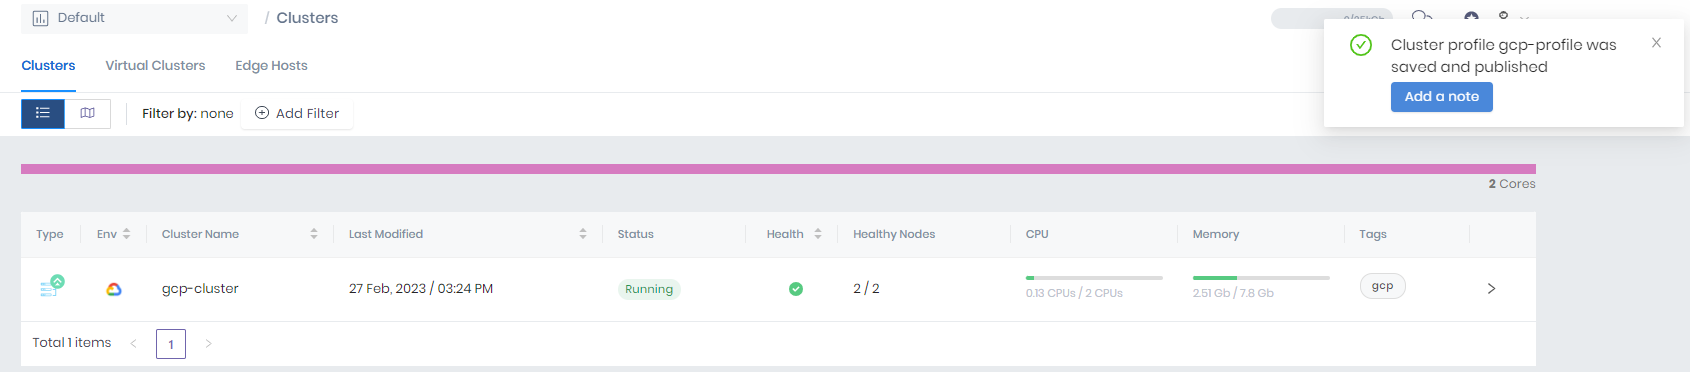
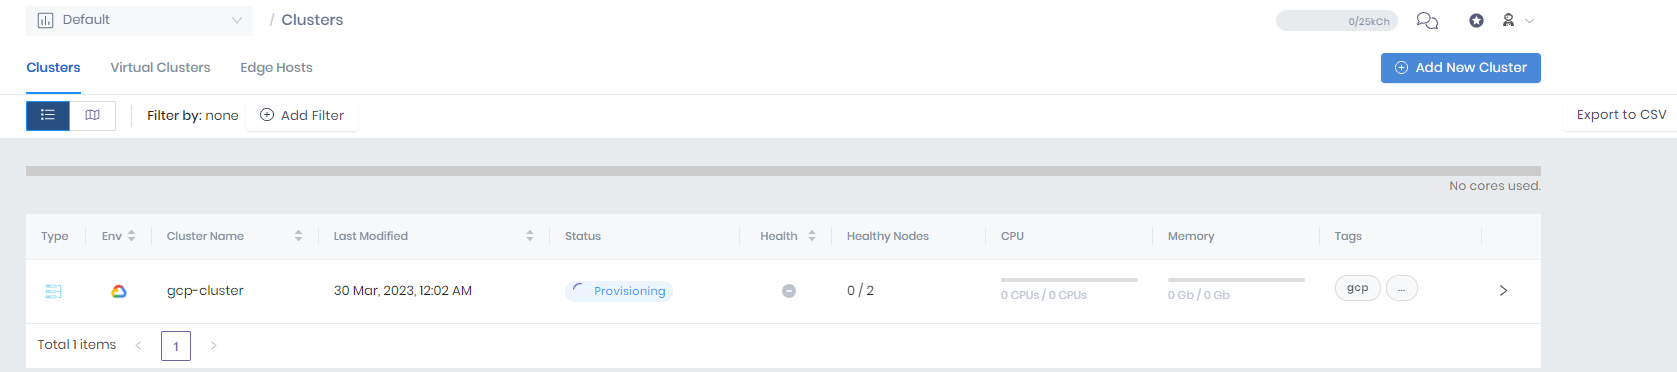
added GCP cluster creation with Terraform

diff --git a/content/docs/18-knowledgebase/01-tutorials/3-deploy-k8s-cluster.md b/content/docs/18-knowledgebase/01-tutorials/3-deploy-k8s-cluster.md
@@ -234,7 +234,7 @@ Take a look of the overall setup and press *Finish Configuration* to deploy it.
 
 Now select the **Clusters** page from the left panel and check the created cluster.
 
-![Update the cluster](deploy-k8s-cluster/deploy_app/aws_create_cluster.png)
+![Update the cluster](deploy-k8s-cluster/aws/aws_create_cluster.png)
 
 Click on the cluster to see the details, such as status, pack layers, monitoring data, and many other information.
 
@@ -576,7 +576,7 @@ For the purpose of this tutorial, you can use the default settings configuration
 
 The review section resumes the cluster configuration as you have configured it in the previous steps.
 
-![aws creation of a new cluster overview page](deploy-k8s-cluster/gcp/clusters_review.png)
+![gcp creation of a new cluster overview page](deploy-k8s-cluster/gcp/clusters_review.png)
 
 Take a look of the overall setup and press *Finish Configuration* to deploy it.
 
@@ -721,6 +721,12 @@ With Terraform, you will create the cluster and deploy the application. Each clu
 <Tabs.TabPane tab="AWS" key="aws-terraform">
 
 ## Configure the Cluster Profile
+
+Create a folder where you will put all the Terraform configuration files and open it:
+```bash
+$ mkdir terraform-project
+$ cd terraform-project
+```
 
 ### Providers
 
@@ -1299,6 +1305,12 @@ Click on the cluster to see the details, such as status, pack layers, monitoring
 
 ## Configure the Cluster Profile
 
+Create a folder where you will put all the Terraform configuration files and open it:
+```bash
+$ mkdir terraform-project
+$ cd terraform-project
+```
+
 ### Providers
 
 Create the file *provider.tf* and insert the list of variables:
@@ -1339,6 +1351,40 @@ spectrocloud_api_key = "j54Asdjnxxxxxxxxxxxxxxxxxxxxxxxx"
 To find the value of the *spectrocloud_api_key*, open the Palette dashboard and, from the left **Main Menu** click on the **Tenant Settings** panel and select **API Keys**.
 
 <br />
+
+
+### Data
+
+The *data* file contains the details, such as name, version, of the stacks that compose the infrastructure.
+
+Create the file *data.tf* and insert:
+
+```terraform
+data "spectrocloud_pack" "csi" {
+  name    = "csi-gcp-driver"
+  version = "1.7.1"
+}
+
+data "spectrocloud_pack" "cni" {
+  name    = "cni-calico"
+  version = "3.24.5"
+}
+
+data "spectrocloud_pack" "k8s" {
+  name    = "kubernetes"
+  version = "1.24.10"
+}
+
+data "spectrocloud_pack" "ubuntu" {
+  name    = "ubuntu-gcp"
+  version = "20.04"
+}
+
+data "spectrocloud_pack" "proxy" {
+  name    = "spectro-proxy"
+  version = "1.2.0"
+}
+```
 
 
 ### Cluster Profile
@@ -1390,6 +1436,162 @@ resource "spectrocloud_cluster_profile" "profile" {
   }
 }
 ```
+
+
+## Create the Profile
+
+To create the cluster profile on Palette use the Terraform commands to apply the information present into the configuration files.
+
+Open the terminal, enter into the folder where you have the Terraform configuration files and initialize the working directory containing Terraform configuration files
+```bash
+$ terraform init
+```
+
+Validate the configuration files in the directory
+```bash
+$ terraform validate 
+```
+
+Create the execution plan with the preview changes your configuration will create on the infrastructure
+```bash
+$ terraform plan
+```
+
+Revise the output of the *plan* command to check the profile details and apply the modifications there are in the plan to execute them and create the infrastructure
+```bash
+$ terraform apply
+```
+
+## Configure the Cluster
+
+### Variables
+
+Edit the file *variables.tf* and insert the list of variables:
+
+```terraform
+variable "spectrocloud_api_key" {}
+variable "cluster_profile" {}
+variable "region" {}
+variable "gcp-cloud-account-name" {
+    type = string
+    description = "The name of your GCP account as assigned in Palette"
+}
+variable "master_nodes" {
+    type = object({
+        count           = string
+        instance_type   = string
+        disk_size_gb    = string
+        availability_zones = list(string)
+    })
+    description = "Master nodes configuration."
+}
+variable "worker_nodes" {
+    type = object({
+        count           = string
+        instance_type   = string
+        disk_size_gb    = string
+        availability_zones = list(string)
+    })
+    description = "Worker nodes configuration."
+}
+```
+
+Then, edit also the file *terraform.tfvars* and append the content of the variables:
+```terraform
+spectrocloud_api_key    = "j54AsdjnSP2YU9jJF1K5dVYeURWzO4qd"
+cluster_profile         = "tf-gcp-profile"
+region                  = "us-east1"
+gcp-cloud-account-name  = "myproject-379610"
+master_nodes = {
+    count            = "1"
+    instance_type    = "n1-standard-2"
+    disk_size_gb     = "50"
+    availability_zones = ["us-east1-b"]
+}
+worker_nodes = {
+    count            = "2"
+    instance_type    = "n1-standard-2"
+    disk_size_gb     = "50"
+    availability_zones = ["us-east1-b"]
+}
+```
+
+### Cluster Profile
+
+Create the *cluster.tf* file and insert the cluster resource:
+
+```terraform
+data "spectrocloud_cloudaccount_gcp" "account" {
+  name = var.gcp-cloud-account-name
+}
+data "spectrocloud_cluster_profile" "profile" {
+  name = var.cluster_profile
+}
+resource "spectrocloud_cluster_gcp" "cluster" {
+  name             = "gcp-cluster"
+  tags             = ["gcp", "tutorial"]
+  cloud_account_id = data.spectrocloud_cloudaccount_gcp.account.id
+  cloud_config {
+    project = "Default"
+    region  = var.region
+  }
+  cluster_profile {
+    id = data.spectrocloud_cluster_profile.profile.id
+  }
+  machine_pool {
+    control_plane           = true
+    control_plane_as_worker = true
+    name                    = "master-pool"
+    count                   = var.master_nodes.count
+    instance_type           = var.master_nodes.instance_type
+    disk_size_gb            = var.master_nodes.disk_size_gb
+    azs                     = var.master_nodes.availability_zones
+  }
+  machine_pool {
+    name          = "worker-basic"
+    count         = var.worker_nodes.count
+    instance_type = var.worker_nodes.instance_type
+    disk_size_gb  = var.worker_nodes.disk_size_gb
+    azs           = var.worker_nodes.availability_zones
+  }
+}
+```
+
+
+## Create the Cluster
+
+To create the cluster on the cloud provider use the Terraform commands to apply the information present into the configuration files.
+
+Open the terminal, enter into the folder where you have the Terraform configuration files and validate the configuration files in the directory
+```bash
+$ terraform validate
+```
+
+Create the execution plan with the preview changes your configuration will create on the infrastructure
+```bash
+$ terraform plan
+```
+
+Revise the output of the *plan* command to check the cluster details and apply the modifications there are in the plan to execute them and create the infrastructure
+```bash
+$ terraform apply
+```
+
+
+## Validation
+
+To check the profile creation on Palette, login to Palette dashboard and, from the left **Main Menu** click on the **Profiles** panel to access the profile page. At the top of the list you can find the *tf-gcp-profile*:
+![Terraform GCP profile](deploy-k8s-cluster/terraform/tf_gcp_profile.png)
+
+Click on the profile to see the details of the stacks that compose the profile:
+![Terraform GCP profile details](deploy-k8s-cluster/terraform/tf_gcp_profile_details.png)
+
+
+To check the cluster creation, login to Palette dashboard and, from the left **Main Menu** click on the **Clusters** panel from the left panel and check the created cluster. At the top of the list you can find the *gcp-cluster*:
+
+![Update the cluster](deploy-k8s-cluster/gcp/gcp_create_cluster.png)
+
+Click on the cluster to see the details, such as status, pack layers, monitoring data, and many other information.
 
 <br />
 
